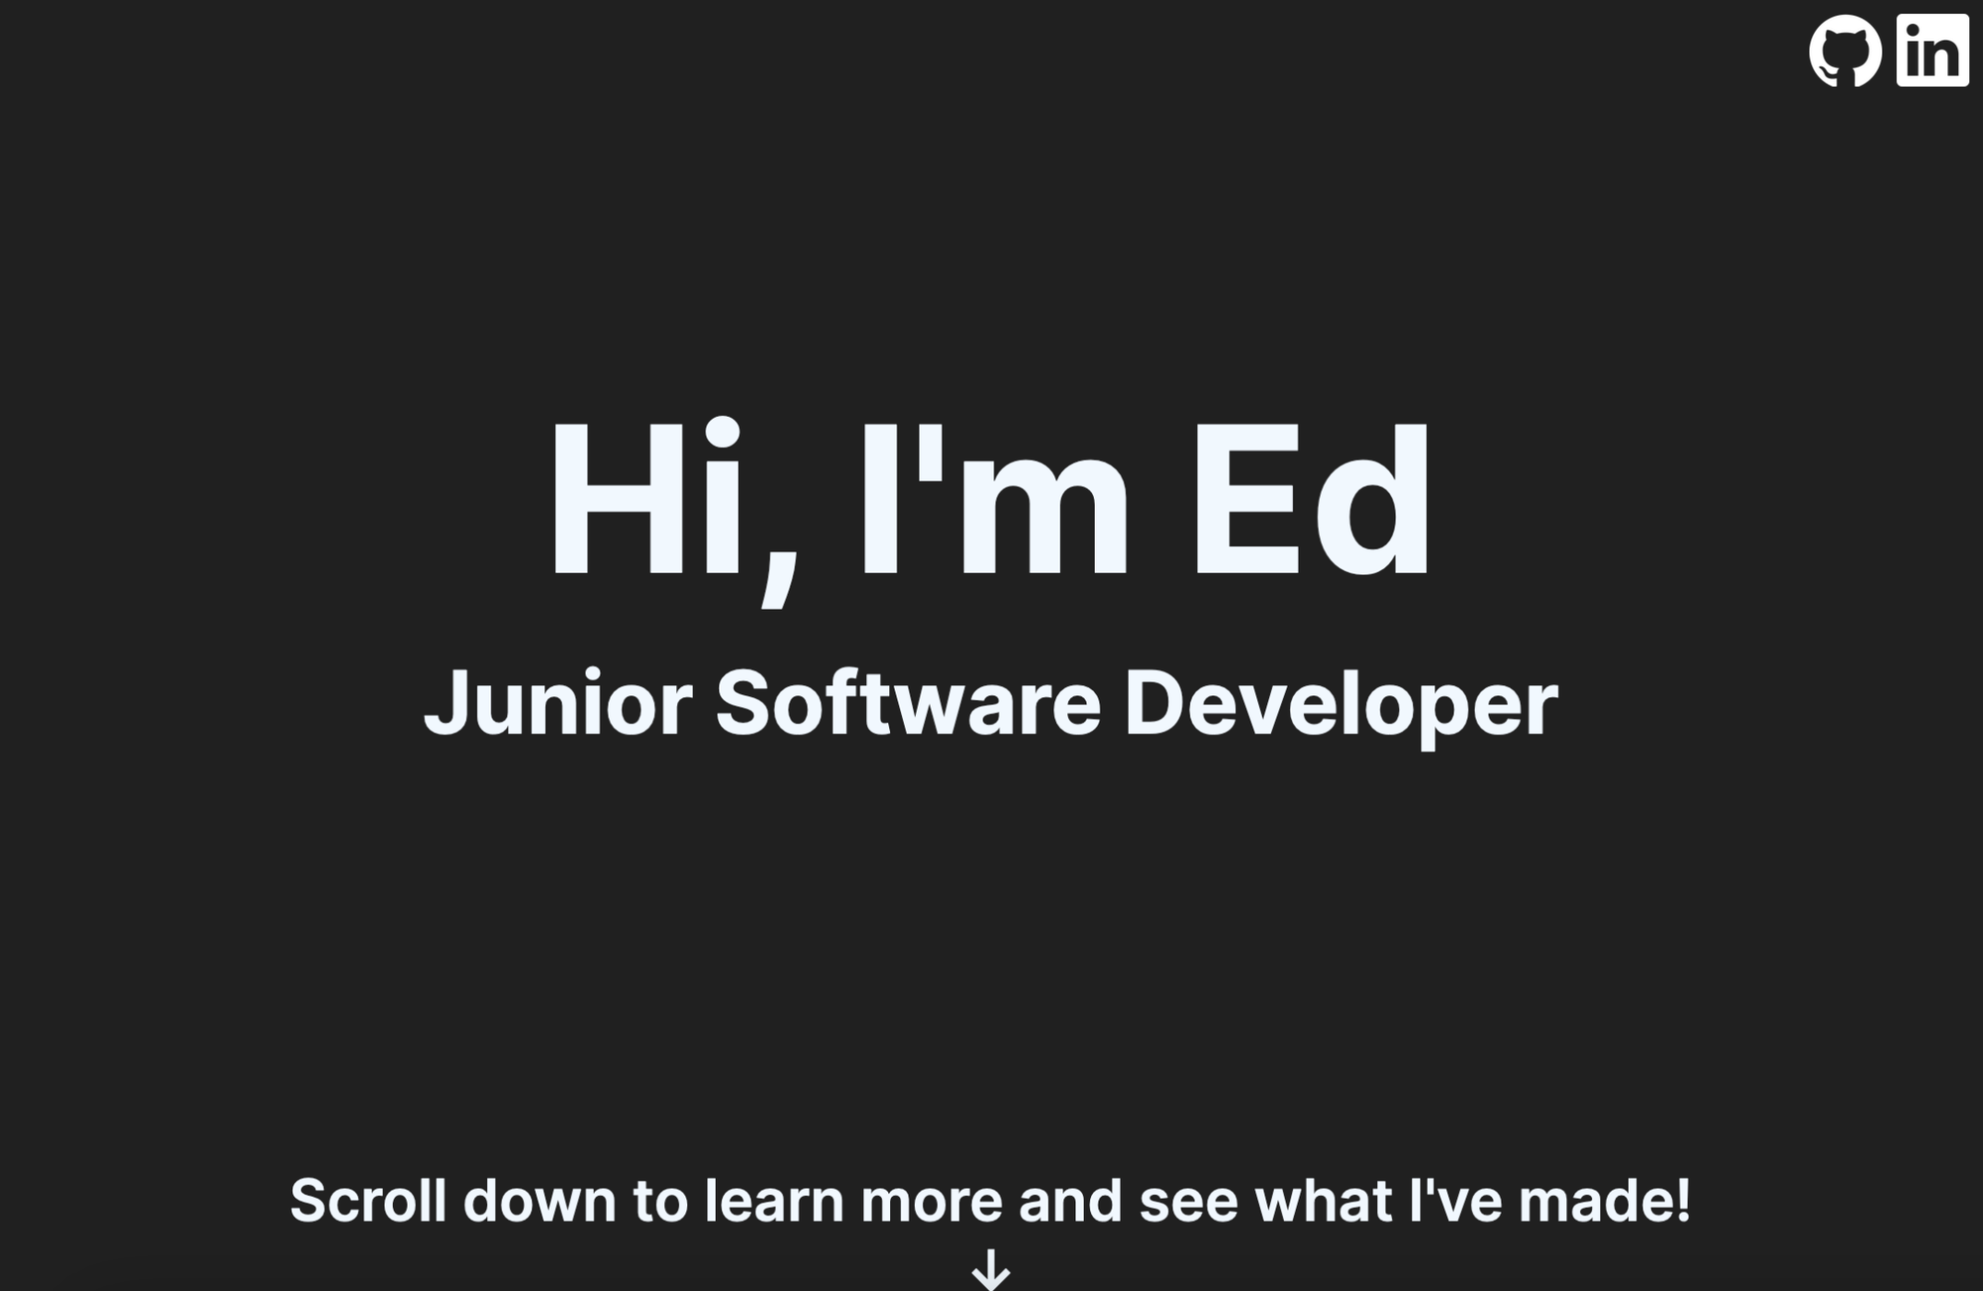
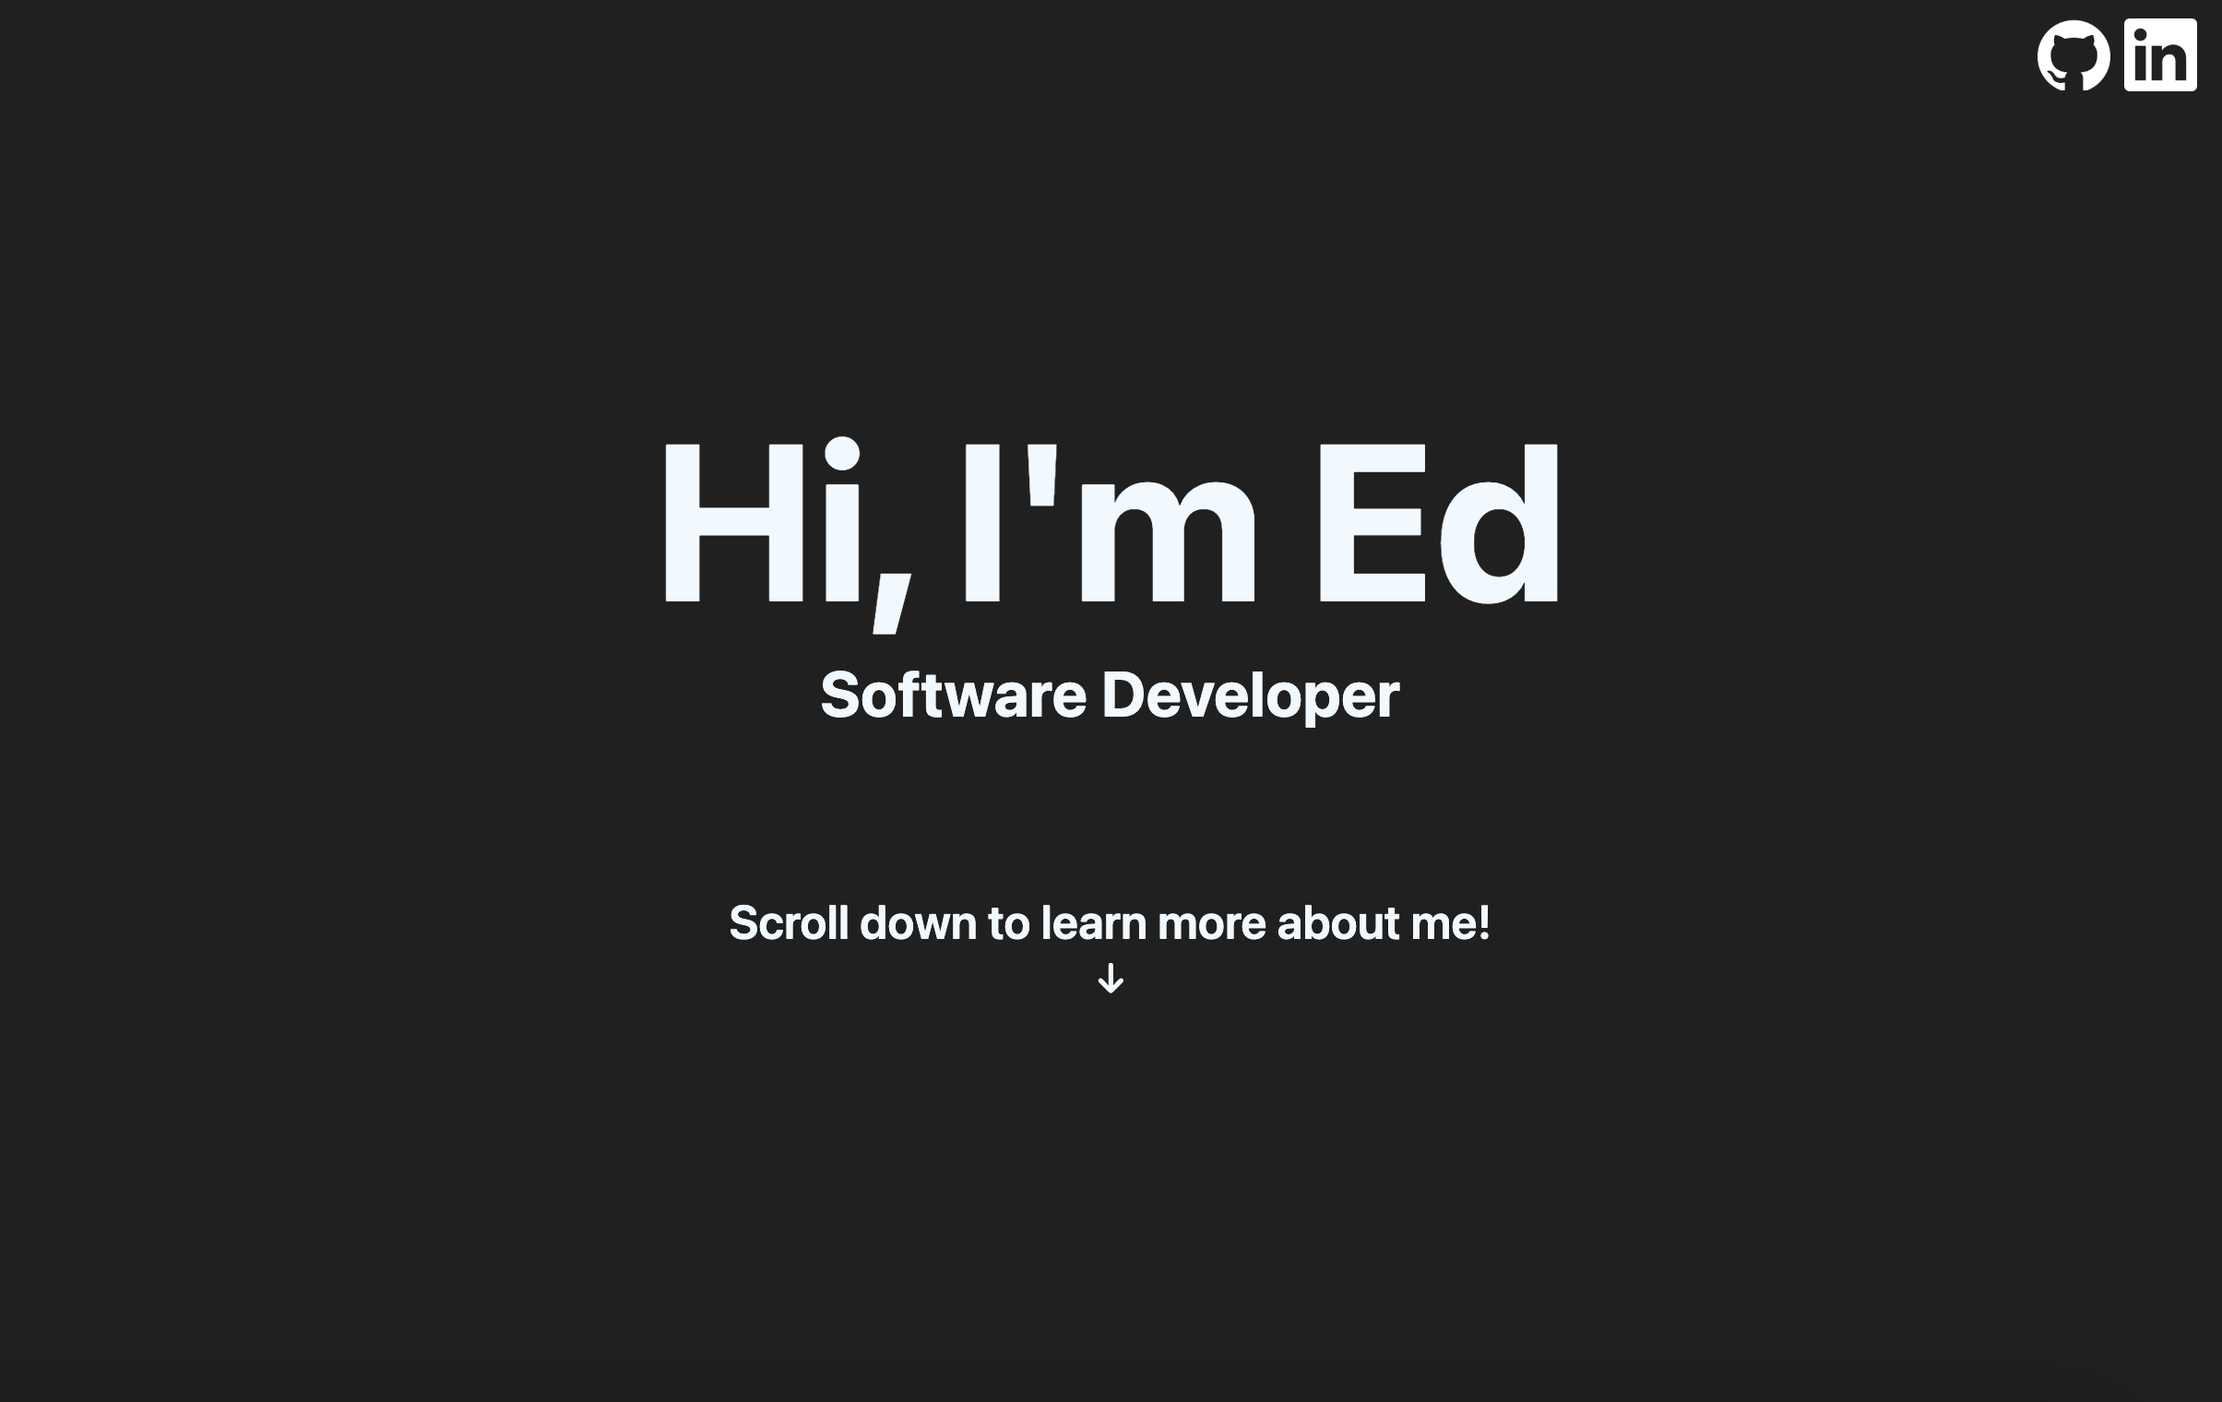
Update Copy (#25)
* update information shown on the 'About Me' page

* update 'Projects' page

* reword text on final page

* update Hobbies pages

* remove the word junior from job title in home page

* change wording on final page

* reword London Classics page

* adjust whitespace in files for Hobbies section

* update copy of hobbies section pages

* update copy in About page

* reorder projects in project-details.json

* update picture used for portfolio website

diff --git a/src/About/About.jsx b/src/About/About.jsx
@@ -4,12 +4,11 @@ function About() {
     return <section id="about" className="page" tabIndex={0}>
                 <h2 id="about-heading">About Me</h2>
             <section id="about-body">
-                <p className="about-text">I love cats!</p>
-                <p className="about-text">I studied Psychology at University, and maintain an interest in it to this day.</p>
-                <p className="about-text">My journey into Software Development began in late 2023, with me using <a className="page-link" href="https://www.w3schools.com" target="blank">W3Schools</a>' <a className="page-link" href="https://www.w3schools.com/html" target="blank">tutorial</a> to teach myself HTML.</p>
-                <p className="about-text">In January, I started <a className="page-link" href="https://northcoders.com" target="blank">Northcoders</a>' <a className="page-link" href="https://northcoders.com/our-courses/skills-bootcamp-in-software-development" target="blank">Software Development Bootcamp</a> - an intensive 13-week course teaching Full Stack Development.</p>
-                <p className="about-text">Since graduating, I have been applying for my first software development role, whilst using online resources to build on my learning, and working on projects to practice and develop my skills.</p>
-                <p className="about-text">To see what I've been working on, scroll down!</p>
+                <p className="about-text">After graduating from a Psychology degree, I ended up working as a customer service advisor both NHS 119 (Coronavirus adviceline), and HM Passport Office.</p>
+				<p className="about-text">After seeing government adverts about cybersecurity jobs, I took the <a className="page-link" href="https://www.coursera.org/professional-certificates/google-cybersecurity" target="blank">Google Cybersecurity Professional Certificate</a> course. It included some Python and SQL coding, which I enjoyed so much, I decided to look at ways to get into software engineering.</p>
+				<p className="about-text">In late 2023, I used a <a className="page-link" href="https://www.w3schools.com" target="blank">W3Schools</a>' <a className="page-link" href="https://www.w3schools.com/html" target="blank">tutorial</a> to teach myself HTML.</p>
+				<p className="about-text">I attended <a className="page-link" href="https://northcoders.com" target="blank">Northcoders</a>' <a className="page-link" href="https://northcoders.com/our-courses/skills-bootcamp-in-software-development" target="blank">Software Development Bootcamp</a> in 2024 - spending 13 weeks learning the fundamentals of Full Stack Development.</p>
+				<p className="about-text">In January 2025 I joined a startup, <a className="page-link" href="https://edifysystems.io/" target="blank">Edify Systems</a>. There I worked on a web app for quick service restaurants to manage their back of house operations - including placing orders, counting stock, planning food production, and analysing business performance.</p>
             </section>
         </section>
 }

diff --git a/src/Hobbies/FilmsPage.jsx b/src/Hobbies/FilmsPage.jsx
@@ -4,10 +4,9 @@ function FilmsPage() {
     return <section className="hobbies-sub-page" id="films-page" tabIndex={0}>
         <h2 className="hobby-heading" id="film-page-heading">Films</h2>
         <section id="film-text-area">
-            <p className="film-page-text">It's fair to say I'm a bit of a film nerd.</p>
-            <p className="film-page-text">I frequently visit the cinema to see new releases.</p>
-            <p className="film-page-text">At home, I like to chronologically make my way through a director's filmography - both to see how their craft developed over time, as well as checking out some films that I would otherwise not bother watching.</p>
-            <p className="film-page-text">The director I'm currently on is Akira Kurosawa (most known for Seven Samurai). His film Ikiru is my favourite thus far.</p>
+            <p className="film-page-text">I am definitely a bit of a film nerd, and I love going to the cinema.</p>
+            <p className="film-page-text">When watching movies at home, I particularly enjoying watching a director's filmography in chronological order. It's interesting to see their craft develop over time, plus catching films that I would likely otherwise not bother to see.</p>
+            <p className="film-page-text">The director I did this with most recently was Akira Kurosawa, with Ikiru being my favourite of his works.</p>
             <p className="film-page-text">You can check out what I've been watching on my Letterboxd <a href="https://letterboxd.com/edthuman" target="blank" className="page-link">account</a>.</p>
         </section>
     </section>

diff --git a/src/Hobbies/LondonClassicsPage.css b/src/Hobbies/LondonClassicsPage.css
@@ -1,0 +1,78 @@
+#london-classics-heading {
+    font-size: 8vh;
+}
+
+#london-classics-text-area {
+    width: 100%;
+}
+
+@media screen and (max-width: 425px) {
+    #london-classics-text-area {
+        height: 45%;
+        margin-bottom: 15%;
+    }
+    .london-classics-text {
+        font-size: 3vh;
+    }
+}
+
+@media screen and (max-height: 400px) {
+    #london-classics-text-area{
+        height: 55%;
+    }
+    .london-classics-text {
+        font-size: 5vh;
+    }
+}
+
+@media screen and (min-width: 700px){
+    #london-classics-heading {
+        font-size: 10vh;
+    }
+}
+
+@media screen and (min-width: 1000px){
+    #london-classics-heading {
+        font-size: 12vh;
+        margin-bottom: 0.7em;
+    }
+}
+
+@media screen and (min-width: 1200px){
+    #london-classics-heading {
+        font-size: 13vh;
+        margin-bottom: 0.7em;
+    }
+}
+
+@media screen and (max-width: 490px) and (min-height: 800px){
+    #london-classics-heading {
+        font-size: 12vw;
+        margin-bottom: 0.7em;
+    }
+}
+
+@media screen and (min-width: 490px) and (min-height: 800px){
+    #london-classics-heading {
+        font-size: 11vw;
+    }
+}
+
+@media screen and (max-width: 500px) and (max-height:800px) {
+    #london-classics-heading {
+        font-size: 12vw;
+    }
+}
+
+@media screen and (min-width: 800px) and (min-height: 800px) {
+    #london-classics-heading {
+        font-size: 7vw;;
+        margin-bottom: 6%;
+    }
+}
+
+@media screen and (min-width: 800px) and (min-height: 1050px) {
+    #london-classics-heading {
+        margin-bottom: 3%;
+    }
+}

diff --git a/src/Hobbies/MusicPage.jsx b/src/Hobbies/MusicPage.jsx
@@ -4,9 +4,9 @@ function MusicPage() {
     return <section className="hobbies-sub-page" id="music-page" tabIndex={0}>
         <h2 className="hobby-heading" id="music-page-heading">Music</h2>
         <section id="music-text-area">
-            <p className="music-page-text">I love to discover new songs, artists, or genres.</p>
-            <p className="music-page-text">An especially good source for obscure music has been the app <a href="https://musicboard.app/" target="blank" className="page-link">MusicBoard</a>, which I'm also using to keep track of what I've listened to.</p>
-            <p className="music-page-text">You can view a list of every album I've ever listened to on my <a href="https://musicboard.app/edthuman/albums" target="blank" className="page-link">profile</a>. In 2023, I listened to 600 new albums!</p>
+            <p className="music-page-text">I love to discover new songs, artists, and genres.</p>
+            <p className="music-page-text">I find the <a href="https://musicboard.app/" target="blank" className="page-link">MusicBoard</a> app to be an especially good way of finding new music, plus it also helps me keep track of what I've been listening to.</p>
+            <p className="music-page-text">You can view a list of albums I've listened to on my <a href="https://musicboard.app/edthuman/albums" target="blank" className="page-link">profile</a>. Since I joined MusicBoard in 2023, I've listened to over a thousand new albums!</p>
         </section>
     </section>
 }

diff --git a/src/Hobbies/LondonClassicsPage.jsx b/src/Hobbies/LondonClassicsPage.jsx
@@ -1,0 +1,15 @@
+import "./LondonClassicsPage.css"
+
+function LondonClassics() {
+    return <section className="hobbies-sub-page" id="london-classics-page" tabIndex={0}>
+        <h2 className="hobby-heading" id="london-classics-heading">London Classics</h2>
+        <section id="london-classics-text-area">
+            <p className="london-classics-text">I am currently in the process of earning my <a href="https://www.londonmarathonevents.co.uk/london-classics/about-london-classics" target="blank" className="page-link">London Classics</a> medal. These are given to people who have run the London Marathon, cycled the RideLondon 100, and swam the Swim Serpentine.</p>
+            <p className="london-classics-text">In September 2026, I finished the two-mile Swim Serpentine in 1:24:11, beating my goal time by almost six minutes.</p>
+            <p className="london-classics-text">A friend and I have signed up for the <a href="https://www.caledoniangroupevents.co.uk/etape-loch-ness" target="blank" className="page-link">Etape Loch Ness</a> in April 2027 - a 66 mile cycle around Loch Ness that is being included in the London classics, substituting for RideLondon that is currently on indefinite pause.</p>
+            <p className="london-classics-text">I plan to enter the ballot for the 2028 London Marathon, which I would run for charity.</p>
+        </section>
+    </section>
+}
+
+export default LondonClassics

diff --git a/src/Hobbies/BooksPage.jsx b/src/Hobbies/BooksPage.jsx
@@ -4,9 +4,8 @@ function BooksPage() {
     return <section className="hobbies-sub-page" id="books-page" tabIndex={0}>
         <h2 className="hobby-heading">Books</h2>
         <section id="books-text-area">
-            <p className="books-page-text">Shortly before the COVID-19 pandemic, I rediscovered a love of reading.</p>
-            <p className="books-page-text">I prefer non-fiction, usually gravitating to books that cover psychology, philosphy, sociology, and politics.</p>
-            <p className="books-page-text">My favourite book is War and Peace. As well as being a well-written story, I loved that Tolstoy takes sizeable detours from the narrative to speak directly to the reader, usually to correct the inaccuracies of historians - in the case of one battle, based on his first-hand experience of what happened.</p>
+            <p className="books-page-text">Shortly before the first COVID-19 lockdown, I rediscovered a love of reading.</p>
+            <p className="books-page-text">My favourite book is War and Peace. As well as being a well-written story, I loved that Tolstoy takes sizeable detours from the narrative to speak directly to the reader, correcting the inaccuracies of historians - in one case based on his first-hand experience of a battle.</p>
         </section>
     </section>
 }

diff --git a/src/Hobbies/MiscellaneousPage.jsx b/src/Hobbies/MiscellaneousPage.jsx
@@ -5,9 +5,8 @@ function MiscellaneousPage() {
         <h2 className="hobby-heading" id="miscellaneous-page-heading">Miscellaneous</h2>
         <section id="miscellaneous-text-area">
             <p className="miscellaneous-page-text">I enjoy trying different foods. If I can, I like to cook at least one new recipe each week - usually found in a cookbook or on YouTube.</p>
-            <p className="miscellaneous-page-text">After getting a good deal on my sister's old skateboard, I've been getting to grips with riding it. No tricks yet!</p>
-            <p className="miscellaneous-page-text">I do play the occasional video game. My favourite series are The Last of Us, Red Dead Redemption, and Jak and Daxter.</p>
-            <p className="miscellaneous-page-text">I plan to start learning the drums very soon!</p>
+            <p className="miscellaneous-page-text">I love to play video games, especially with my girlfriend Mary. My favourite series are The Last of Us, Red Dead Redemption, and Jak and Daxter.</p>
+            <p className="miscellaneous-page-text">I performed stand up a few times whilst at uni, but more recently have been interested in improv. I began attending improv courses in 2025, but have not yet performed it in front of a crowd.</p>
         </section>
     </section>
 }

diff --git a/src/Projects/ProjectList/ProjectCard.jsx b/src/Projects/ProjectList/ProjectCard.jsx
@@ -49,7 +49,7 @@ function ProjectCard({project}){
         <p className="modal-tech-stack">Tech used: {project["tech-used"].join(", ")}</p>
             {project.fullDescription.paragraphs.map((paragraph, index) => <p key={`paragraph-${index}`} className="modal-text">{paragraph}</p>)}
             <p className="modal-text">Link to GitHub repo: <a href={project.githubLink} target="blank" className="modal-link">{project.githubLink}</a></p>
-            {project.hosted ? <p className="modal-text">Link to {project.name === "EcoQuest" ? "project on the Northcoders website" : "hosted project"}: <a href={project.hostedLink} target="blank" className="modal-link">{project.hostedLink}</a></p> : null}
+            {project.hosted ? <p className="modal-text">Link to hosted project: <a href={project.hostedLink} target="blank" className="modal-link">{project.hostedLink}</a></p> : null}
         </section> 
         <section className="modal-button-area">
             <button onClick={closeModal} className="modal-button">Close</button>

diff --git a/src/Contacts/Contacts.jsx b/src/Contacts/Contacts.jsx
@@ -3,8 +3,8 @@ import "./Contacts.css"
 function Contacts() {
     return <section className="page" id="contacts-page" tabIndex={0}>
         <h2 id="contacts-heading">Still want to know more?</h2>
-        <p className="contacts-subheading">Feel free to check out my <a href="https://github.com/edthuman" target="blank" className="contacts-page-link">GitHub</a></p>
-        <p className="contacts-subheading">Or follow me on <a href="https://www.linkedin.com/in/edwardirvine" target="blank" className="contacts-page-link">LinkedIn</a>, I'm always happy to chat :)</p>
+        <p className="contacts-subheading">You can check out my <a href="https://github.com/edthuman" target="blank" className="contacts-page-link">GitHub</a> profile</p>
+        <p className="contacts-subheading">Or connect with me on <a href="https://www.linkedin.com/in/edwardirvine" target="blank" className="contacts-page-link">LinkedIn</a>, I'm always happy to chat :)</p>
     </section>
 }
 

diff --git a/src/Hobbies/Hobbies.css b/src/Hobbies/Hobbies.css
@@ -28,6 +28,12 @@
     font-weight: 550;
 }
 
+.london-classics-text {
+    padding: 0 1em;
+    font-size: 3vh;
+    font-weight: 550;
+}
+
 @media screen and (max-width: 420px){
     .hobby-heading {
         margin-bottom: 0em;
@@ -42,6 +48,10 @@
     .music-page-text, .books-page-text, .miscellaneous-page-text {
         font-size: 3.2vh;
     }
+
+    .london-classics-text {
+        font-size: 2.6vh;
+    }
 }
 
 @media screen and (min-width: 700px){
@@ -52,6 +62,10 @@
     .music-page-text, .books-page-text, .miscellaneous-page-text {
         font-size: 4vh;
     }
+
+    .london-classics-text {
+        font-size: 3.3vh;
+    }
 }
 
 @media screen and (min-width: 1000px){
@@ -61,6 +75,10 @@
 
     .music-page-text, .books-page-text, .miscellaneous-page-text {
         font-size: 4.5vh;
+    }
+
+    .london-classics-text {
+        font-size: 3.6vh;
     }
 }
 

diff --git a/src/Hobbies/Hobbies.jsx b/src/Hobbies/Hobbies.jsx
@@ -1,17 +1,19 @@
 import "./Hobbies.css"
-import HobbiesTitlePage from "./HobbiesTitlePage"
-import MusicPage from "./MusicPage"
 import BooksPage from "./BooksPage"
 import FilmsPage from "./FilmsPage"
+import HobbiesTitlePage from "./HobbiesTitlePage"
+import LondonClassicsPage from "./LondonClassicsPage"
 import MiscellaneousPage from "./MiscellaneousPage"
+import MusicPage from "./MusicPage"
 
 function Hobbies() {
     return <section className="page" id="hobbies-section" tabIndex={0}>
-    <HobbiesTitlePage/>
-    <MusicPage/>
-    <BooksPage/>
-    <FilmsPage/>
-    <MiscellaneousPage/>
+        <HobbiesTitlePage/>
+        <LondonClassicsPage/>
+        <MusicPage/>
+        <BooksPage/>
+        <FilmsPage/>
+        <MiscellaneousPage/>
     </section>
 }
 

diff --git a/src/Hobbies/HobbiesTitlePage.jsx b/src/Hobbies/HobbiesTitlePage.jsx
@@ -2,9 +2,9 @@ import "./HobbiesTitlePage.css"
 
 function HobbiesTitlePage() {
     return <section id="hobbies-title-page" className="hobbies-sub-page">
-    <h2 id="hobby-title-page-heading">Hobbies</h2>
-    <p id="hobby-title-page-subheading">Scroll to see what I get up to in my free time →</p>
-</section>
+        <h2 id="hobby-title-page-heading">Hobbies</h2>
+        <p id="hobby-title-page-subheading">Scroll to see what I get up to in my free time →</p>
+    </section>
 }
 
 export default HobbiesTitlePage
